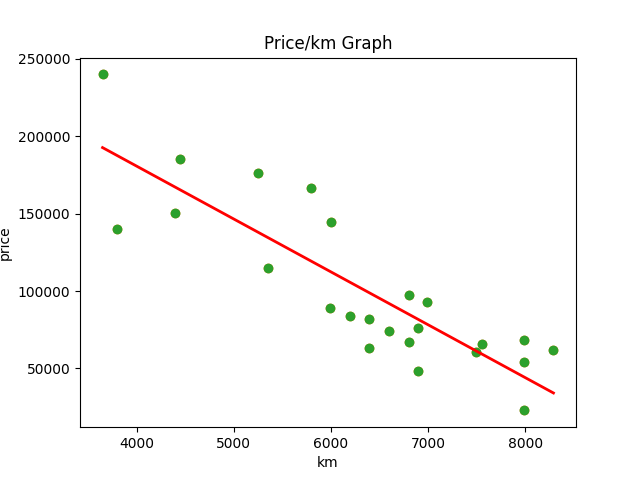
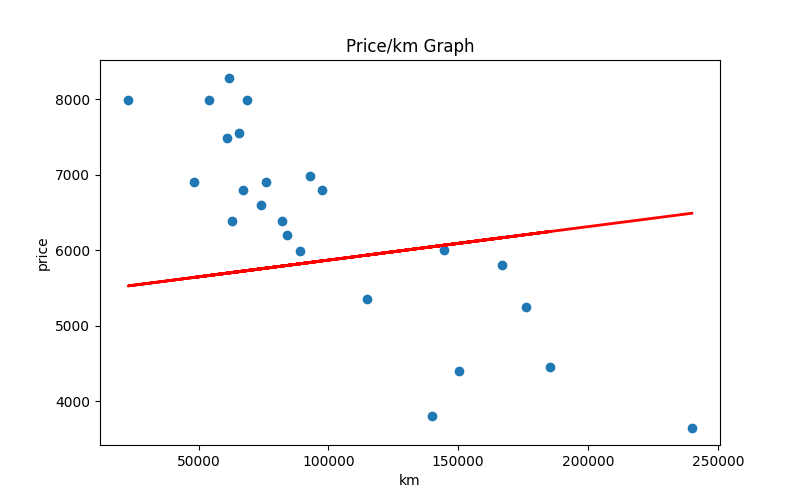
work a little bit

diff --git a/cli.py b/cli.py
@@ -9,6 +9,7 @@ from newData import newData
 
 tetha0 = 0
 tetha1 = 0
+learningRate = 0.01
 graphOpen = False
 
 @click.command()
@@ -26,8 +27,7 @@ def main():
                 createGraph()
             elif choice == "Quit":
                 break
-            UpdateTheta0();
-            UpdateTheta1();
+            UpdateTheta1V2();
     except KeyboardInterrupt:
         print("\n...Leaving....");
     except click.exceptions.Abort:
@@ -41,7 +41,7 @@ def estimation():
     mileage = click.prompt("Enter Mileage", type = float);
     estimatePrice = mileage * tetha1 + tetha0;
     click.echo(click.style(f"\nEstimate Price for the car is: {estimatePrice}", fg='green'));
-    time.sleep(1.5);
+    time.sleep(1);
 
 def selectMenu():
     return inquirer.select(
@@ -53,20 +53,28 @@ def createGraph():
     try:
         global tetha0;
         global tetha1;
+
         data = pd.read_csv("db.csv");
-        plt.scatter(data['price'], data['km']);
+
+        x_points = data['km']
+        y_points = data['price']
+
+        x_lines = data['km']
+        click.echo(click.style(f"\nThetha1 is: {tetha1}, {tetha0}", fg='green'));
+        y_lines = tetha1 * x_lines + tetha0;
+
+        plt.figure(figsize=(8,5));   
+        plt.scatter(data['km'], data['price']);
+        plt.plot(x_lines, y_lines, color='red', linewidth=2);
+
         plt.title("Price/km Graph");
         plt.xlabel('km');
         plt.ylabel('price');
-        plt.magma();
-        plt.hist2d
-        x = data['price']
-        y = tetha1 * x + tetha0;
-        click.echo(click.style(f"\nThetha1 is: {tetha1},, {tetha0}", fg='green'));
-        plt.plot(x, y, color='red', linewidth=2)
+        
         plt.savefig("figure.png");
-        subprocess.run(["xdg-open", "figure.png"])
+        subprocess.run(["xdg-open", "figure.png"]);
         graphOpen = True
+        plt.close();
     except:
         click.echo("\nerror");
         return;
@@ -75,21 +83,86 @@ def UpdateTheta1():
     global tetha1;
     data = pd.read_csv("db.csv");
     sumXY = (data["price"] * data["km"]).sum();
-    sumX = data["price"].sum();
-    sumY = data["km"].sum();
-    sumXX = (data["price"] * data["price"]).sum();
-    linesNB = data["price"].count();
+    sumX = data["km"].sum();
+    sumY = data["price"].sum();
+    sumXX = (data["km"] * data["km"]).sum();
+    linesNB = data["km"].count();
+    if linesNB == 0:
+        return;
     tetha1 =  (linesNB * sumXY - sumX * sumY) / (linesNB * sumXX - (sumX * sumX));
 
-def UpdateTheta0() :
+def UpdateTheta0V2():
+    global tetha1;
+    global tetha0;
+    global learningRate;
+
+    data = pd.read_csv("db.csv");
+    linesNB = data["km"].count();
+
+    click.echo(click.style(f"\nYOOOO", fg='green'));
+
+    oldVal = tetha0;
+    sumMarginPrice = ((data["km"] * tetha1 + oldVal - data["price"])).sum();
+    tetha0 = oldVal - (learningRate * (1/linesNB) * sumMarginPrice);
+    click.echo(click.style(f"\nEstimate Price : {sumMarginPrice, tetha0}", fg='green'));
+
+# normalized_value = (value - min) / (max - min)
+
+def UpdateTheta1V2():
+    global tetha1;
+    global tetha0;
+    global learningRate;
+
+    data = pd.read_csv("db.csv");
+    linesNB = data["km"].count();
+    if linesNB < 2:
+        return;
+    km = data["km"];
+    price = data["price"];
+
+    normKm = (km - km.min()) / (km.max() - km.min());
+    normPrice = (price - price.min()) / (price.max() - price.min());
+    
+    oldVal0 = tetha0;
+    oldVal1 = tetha1;
+
+    tetha1 = oldVal1 * (km.max() - km.min()) / (price.max() - price.min());
+    tetha0 = (oldVal0 - price.min()) / (price.max() - price.min()) + oldVal1 * (km.min() / (km.max() - km.min()));
+    for i in range(1000000):
+        oldVal0 = tetha0;
+        oldVal1 = tetha1;
+
+        sumMarginPriceTheta0 = ((normKm * oldVal1 + oldVal0 - normPrice)).sum();
+        tetha0 = oldVal0 - (learningRate * (1/linesNB) * sumMarginPriceTheta0);
+
+        sumMarginPriceTheta1 = ((normKm * oldVal1 + oldVal0 - normPrice) * normKm).sum();
+        tetha1 = oldVal1 - (learningRate * (1/linesNB) * sumMarginPriceTheta1);
+
+        heyhey1 = (price.max() - price.min()) * tetha1 / (km.max() - km.min());
+        heyhey = price.min() + (price.max() - price.min()) * (tetha0 - tetha1 * km.min() / (km.max() - km.min()))
+        click.echo(click.style(f"\nEstimate Price : {tetha1 - oldVal1, tetha0 - oldVal0}", fg='green'));
+        if abs(tetha1 - oldVal1) < 0.001 and abs(tetha0 - oldVal0) < 0.001:
+            break;
+    oldVal0 = tetha0;
+    oldVal1 = tetha1;
+    tetha1 = (price.max() - price.min()) * oldVal1 / (km.max() - km.min());
+    tetha0 = price.min() + (price.max() - price.min()) * (oldVal0 - oldVal1 * km.min() / (km.max() - km.min()));
+
+# A = (maxPrice - minPrice) * theta1 / (maxKm - minKm)
+# B = minPrice + (maxPrice - minPrice) * (theta0 - theta1 * minKm / (maxKm - minKm))
+
+def UpdateTheta0():
     global tetha0;
     data = pd.read_csv("db.csv");
-    sumX = data["price"].sum();
-    sumY = data["km"].sum();
+    sumX = data["km"].sum();
+    sumY = data["price"].sum();
     linesNB = data["km"].count();
+    if linesNB == 0:
+        return;
     tetha0 = (sumY - tetha1 * sumX) / linesNB;
-    time.sleep(1.5);
+    time.sleep(1);
 
 
 if __name__ == '__main__':
     main()
+

diff --git a/Readme.md b/Readme.md
@@ -1,0 +1,9 @@
+
+Formule:
+
+    tmp0:
+        -Learning rate: 0.01 safe, a ajuster???
+        - 1/m : ????, m est taux d'erreur???
+        - m−1∑ i=0  (estimatePrice(mileage[i]) − price[i])
+
+        (prix reel - prix) estime avec Theta1, Theta2
